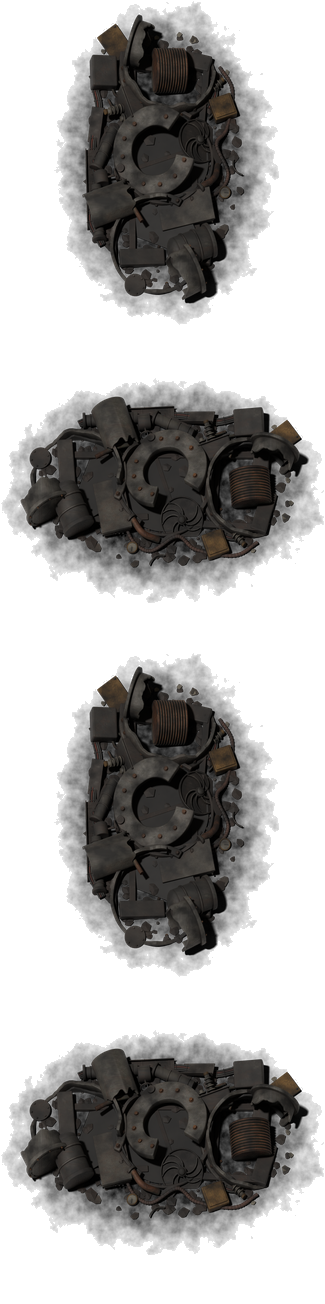
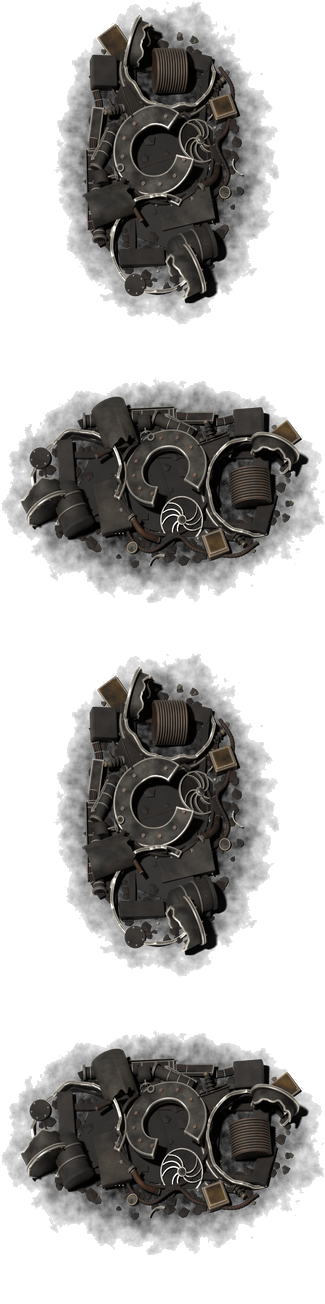
WIP: bare-metal glints on the sooted turbine wreck's rims
T02c of turbine-remnants (Liam: "Keep some rim shine"). Within ~0.05
tile of a collar, rotor, vane or pipe edge the soot gives way to polished
steel, so the wreck reads at 1x as vanilla's does (p95 129, vanilla
125-138).

Claude-Session: https://claude.ai/code/session_01M2xBqY2x1tfpSgYSQDAYYJ

diff --git a/concept/crust-turbine/model/crust_turbine.py b/concept/crust-turbine/model/crust_turbine.py
@@ -1449,6 +1449,21 @@ SOOT = "#0D0B09"
 SOOT_MIX = (0.78, 0.98)               # the soot's share, where the noise is thinnest and thickest
 SOOT_ROUGH = 0.82
 SOOT_METAL = 0.45                     # metallic kept
+# T02c (Liam, "Keep some rim shine"): bare metal glinting through the soot on the edges -- the
+# collars' rims, the torn edges -- found as Cycles' Bevel node finds them: within GLINT_R of an
+# edge its rounded normal turns from the true one, and where their dot product falls from
+# GLINT_EDGE[0] to [1] the soot is shed (Pointiness was tried: on these low-poly shells it took
+# whole faces, and the middle collar read clean again). The share of the soot the edge sheds, per material: the
+# bright metals most of it; the painted casings, the ground, glass and dark wells none (their
+# edges lifted the mid tone, not the highlights).
+GLINT_EDGE = (0.995, 0.95)
+GLINT_R = 0.05                        # tiles: wider than the parts' own bevels (0.006-0.022)
+GLINT_METAL = "#ECE6DA"               # the bare steel the edge is scraped to (near the collar's own worn metal)
+GLINT_ROUGH = 0.2                     # the glint polished: a sharp highlight, not a grey band
+# the collars, the rotor and its vanes most; the small hardware (bolts, pipes: curved all over,
+# so edge everywhere to the Bevel node) little, or the whole of it goes bare and lifts the mid tone
+GLINT = dict(collar=1.0, pipe=1.0, rotor=0.8, vane=0.9, seam=0.2, steel=0.2, brass=0.2, bronze=0.1,
+             copper=0.1)
 
 
 def sooted(m):
@@ -1470,6 +1485,25 @@ def sooted(m):
     mask.inputs["To Max"].default_value = SOOT_MIX[1]
     mask.clamp = True
     t.links.new(nz.outputs["Fac"], mask.inputs["Value"])
+    # the glint: the soot thinned on convex edges, by the material's GLINT share
+    edge = t.nodes.new("ShaderNodeMapRange")
+    edge.inputs["From Min"].default_value = GLINT_EDGE[0]
+    edge.inputs["From Max"].default_value = GLINT_EDGE[1]
+    edge.inputs["To Min"].default_value = 1.0
+    edge.inputs["To Max"].default_value = 1.0 - GLINT.get(m.name.split(".")[0], 0.0)
+    edge.clamp = True
+    bev = t.nodes.new("ShaderNodeBevel")
+    bev.samples = 8
+    bev.inputs["Radius"].default_value = GLINT_R
+    dot = t.nodes.new("ShaderNodeVectorMath")
+    dot.operation = "DOT_PRODUCT"
+    t.links.new(bev.outputs["Normal"], dot.inputs[0])
+    t.links.new(geo.outputs["Normal"], dot.inputs[1])
+    t.links.new(dot.outputs["Value"], edge.inputs["Value"])
+    fac = t.nodes.new("ShaderNodeMath")
+    fac.operation = "MULTIPLY"
+    t.links.new(mask.outputs["Result"], fac.inputs[0])
+    t.links.new(edge.outputs["Result"], fac.inputs[1])
 
     def toward(sock, value, rgba):
         """sock's input, whatever drives it, mixed toward value by the soot's mask."""
@@ -1477,7 +1511,7 @@ def sooted(m):
         mix.data_type = "RGBA" if rgba else "FLOAT"
         ins = {i.identifier: i for i in mix.inputs}
         a, bb = (ins["A_Color"], ins["B_Color"]) if rgba else (ins["A_Float"], ins["B_Float"])
-        t.links.new(mask.outputs["Result"], ins["Factor_Float"])
+        t.links.new(fac.outputs["Value"], ins["Factor_Float"])
         if sock.links:
             t.links.new(sock.links[0].from_socket, a)
         else:
@@ -1487,10 +1521,33 @@ def sooted(m):
         t.links.new(out, sock)
     toward(b.inputs["Base Color"], rig.srgb(SOOT), True)
     toward(b.inputs["Roughness"], SOOT_ROUGH, False)
+    g = t.nodes.new("ShaderNodeMath")                 # the glint's strength, 0 off the edges
+    g.operation = "SUBTRACT"
+    g.inputs[0].default_value = 1.0
+    t.links.new(edge.outputs["Result"], g.inputs[1])
+    pol = t.nodes.new("ShaderNodeMix")
+    pol.data_type = "FLOAT"
+    pins = {i.identifier: i for i in pol.inputs}
+    t.links.new(g.outputs["Value"], pins["Factor_Float"])
+    t.links.new(b.inputs["Roughness"].links[0].from_socket, pins["A_Float"])
+    pins["B_Float"].default_value = GLINT_ROUGH
+    t.links.new({o.identifier: o for o in pol.outputs}["Result_Float"], b.inputs["Roughness"])
+    bare = t.nodes.new("ShaderNodeMix")               # and scraped to bare steel
+    bare.data_type = "RGBA"
+    bins = {i.identifier: i for i in bare.inputs}
+    t.links.new(g.outputs["Value"], bins["Factor_Float"])
+    t.links.new(b.inputs["Base Color"].links[0].from_socket, bins["A_Color"])
+    bins["B_Color"].default_value = rig.srgb(GLINT_METAL)
+    t.links.new({o.identifier: o for o in bare.outputs}["Result_Color"], b.inputs["Base Color"])
     met = b.inputs["Metallic"]
+    keep = t.nodes.new("ShaderNodeMath")              # 1 bare, SOOT_METAL under full soot
+    keep.operation = "MULTIPLY_ADD"
+    t.links.new(fac.outputs["Value"], keep.inputs[0])
+    keep.inputs[1].default_value = -(1.0 - SOOT_METAL)
+    keep.inputs[2].default_value = 1.0
     k = t.nodes.new("ShaderNodeMath")
     k.operation = "MULTIPLY"
-    k.inputs[1].default_value = SOOT_METAL
+    t.links.new(keep.outputs["Value"], k.inputs[1])
     if met.links:
         t.links.new(met.links[0].from_socket, k.inputs[0])
     else:
